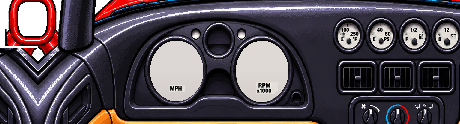
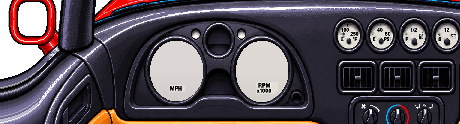
v0.42.0: Serpe V10 com porta construída até a borda e retrovisor de um pé só; noite mais leve
Claude-Session: https://claude.ai/code/session_01MLD9VR7gkmY4w6a9beZcp6

Changed region(s): [[0.0, 0.1694, 0.0913, 1.0]]

diff --git a/tools/ref/viper_door_fix.py b/tools/ref/viper_door_fix.py
@@ -1,0 +1,59 @@
+"""Serpe V10: a faixa à esquerda da arte (colunas 0..37 do topo+painel empilhados) tinha a porta e o
+pé do retrovisor ESPELHADOS (um "V" simétrico com um losango branco no meio). Refaz:
+- retrovisor: a moldura continua inteira; a metade de baixo do lado de fora passa a ser o canto de
+  cima refletido na vertical (sem o segundo pé); o pé de verdade (lado de dentro, da arte) fica
+- o losango branco sob o pé era o lado de fora visto entre o pé e a porta: vira vidro
+- porta: construída até a borda, continuando cada linha da arte (friso, gomos, contorno) na própria
+  inclinação: desce em direção à borda, forte junto da arte e suavizando (curva medida nos gomos)
+Uso: python3 tools/ref/viper_door_fix.py   (parte dos PNG atuais; rodar uma vez)"""
+import os
+import numpy as np
+from PIL import Image
+
+COCK = os.path.join(os.path.dirname(__file__), '..', '..', 'src/assets/cockpit')
+AX = 38          # primeira coluna de arte de verdade
+YC2 = 189        # 2 x a linha do meio da moldura (94,5)
+DOOR = 135       # linha onde a porta começa na coluna AX (abaixo do losango)
+
+tp, dp = os.path.join(COCK, 'viper-top.png'), os.path.join(COCK, 'viper-dash.png')
+t, d = np.array(Image.open(tp).convert('RGBA')), np.array(Image.open(dp).convert('RGBA'))
+st = np.concatenate([t, d], axis=0)
+H = st.shape[0]
+src = st.copy()
+
+# losango branco (vão entre o pé e a porta) -> vidro
+for y in range(120, 138):
+    for x in range(AX, 48):
+        r, g, b, a = src[y, x]
+        if a and min(r, g, b) > 185:
+            st[y, x] = (0, 0, 0, 0)
+src = st.copy()
+
+# lado de fora (colunas < AX)
+st[66:, :AX] = (0, 0, 0, 0)
+st[66:95, :AX] = src[66:95, :AX]                    # metade de cima da moldura: como estava
+for y in range(95, 124):                            # metade de baixo: o canto de cima refletido
+    st[y, :AX] = src[YC2 - y, :AX]
+
+# porta: cada linha segue para a borda descendo (inclinação 1 junto da arte, suavizando até ~22 linhas)
+col = src[:, AX:AX + 2, :3].astype(np.float32).mean(axis=1)
+alpha = src[:, AX, 3].copy()
+alpha[:DOOR] = 0
+rgb = src[..., :3].astype(np.float32)
+for X in range(AX):
+    dist = AX - X
+    off = 22.0 * (1 - np.exp(-dist / 22.0))
+    for y in range(DOOR, H):
+        yb = int(round(y - off))
+        if yb < DOOR or not alpha[yb]:
+            continue
+        c = col[yb]
+        if (X + y) % 2 == 0:                        # pontilhado leve para não ficar chapado
+            c = c + (rgb[yb, AX + 1] - c) * 0.35
+        st[y, X, :3] = np.clip(c, 0, 255).astype(np.uint8)
+        st[y, X, 3] = 255
+
+Image.fromarray(st[:t.shape[0]], 'RGBA').save(tp, optimize=True)
+Image.fromarray(st[t.shape[0]:], 'RGBA').save(dp, optimize=True)
+print('ok')
+# (depois: um furo de 1 px em x=47..48, y=137..138 do topo+painel foi fechado à mão com a cor de baixo)

diff --git a/CLAUDE.md b/CLAUDE.md
@@ -159,6 +159,12 @@
   `python3 tools/qa/edge_build.py <cabine> <L|R> <c0> <inclinação>` (inclinação positiva = a linha desce
   indo para a borda; medir na arte, a automática erra). Ela só refaz as linhas esticadas: retrovisor e
   janela ficam. Conferir com `WIDE=1400 DAYONLY=1 node tools/qa/cockpit_shots.cjs <pasta>` (todos os carros).
+- Faixa à esquerda da arte ESPELHADA (porta em "V" simétrico, pé do retrovisor duplicado): refazer como no
+  Serpe V10 (`tools/ref/viper_door_fix.py`): moldura do retrovisor inteira com um pé só, vão sob o pé vira
+  vidro, e a porta continua cada linha da arte descendo em curva até a borda.
+- Desempenho à noite: medir com `node tools/qa/draw_cost.cjs <carro> <pista...>` (chamadas, megapixels e
+  trocas de canvas por quadro, dia x noite). Efeito novo de luz não pode usar um rascunho por objeto:
+  desenhar em lote (atlas, varredura do longe para o perto) como em shadeCars/maskedPools.
 - Todo carro tem retrovisor do lado do motorista funcionando (vidro com a vista de trás). Se a arte
   não tem, desenhar com `python3 tools/qa/add_mirror.py <cabine> x0 y0 x1 y1 braço_x braço_y #cor` e pôr
   a semente em `glass.at`. Mão inglesa (NSX): o do motorista é o da direita.
